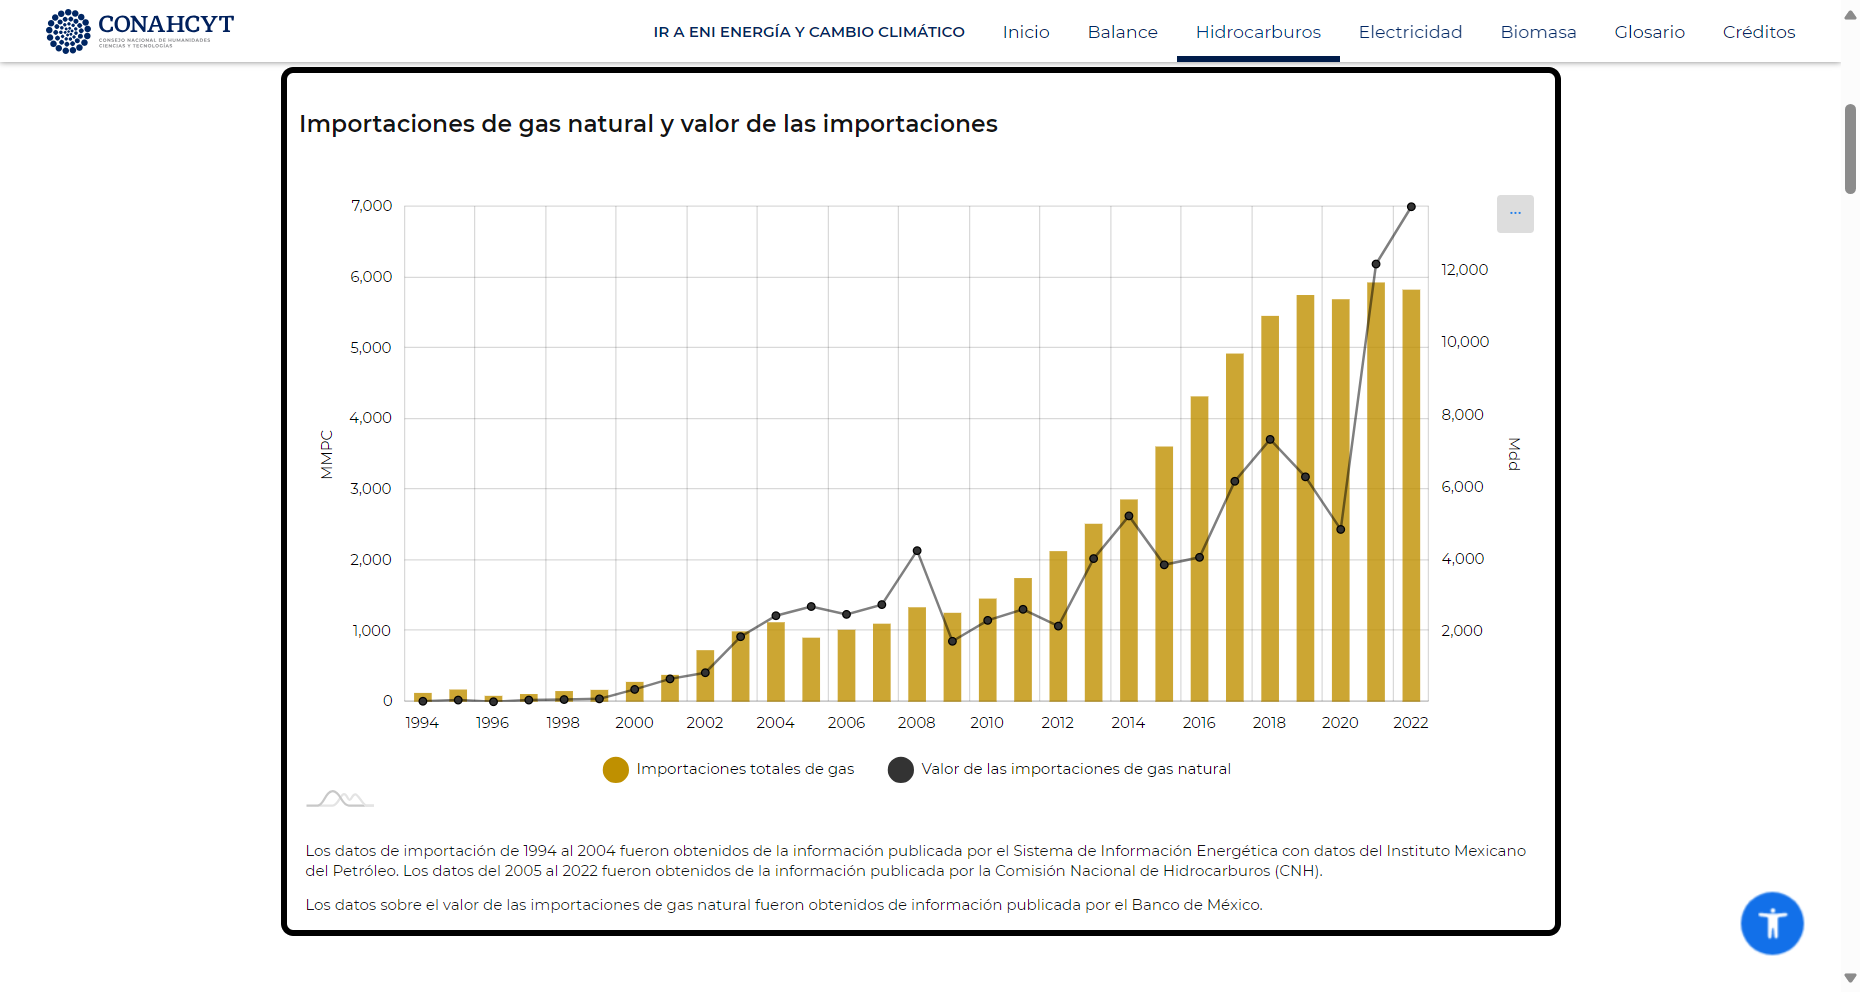
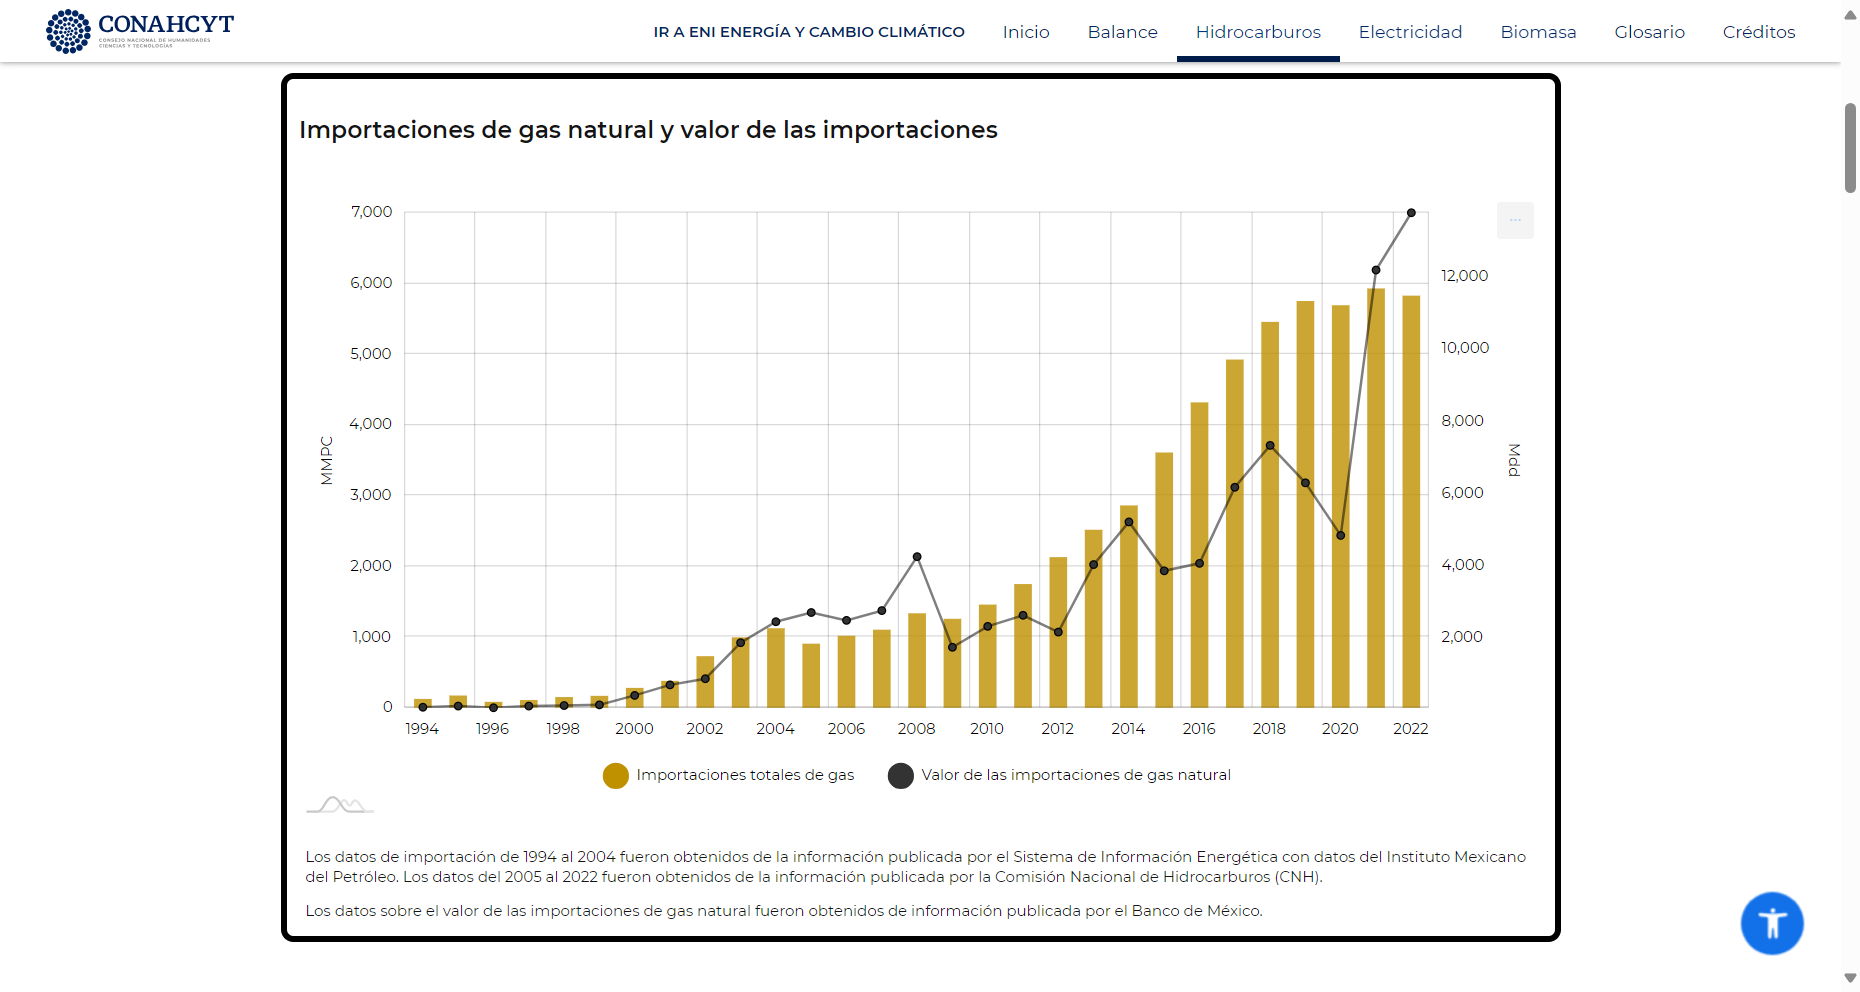
Ajuste minimo de tiempo 0.4 s

diff --git a/conahcyt.py b/conahcyt.py
@@ -9,6 +9,8 @@ from selenium.webdriver.support.select import Select
 from selenium.webdriver.common.action_chains import ActionChains
 
 
+
+
 #Este programa ya resalta el elemento web definido y ubicado por selenium mediante el xpath para despues hacer el procesamiento
 # digital de la imagen optener la mascara de mediante la ubicacion de contornos y despues aplicar un filtro con el tamaño objetivo 
 # para finalmente recortar la imagen. 
@@ -38,14 +40,19 @@ try:
     # WebDriverWait(driver, 30).until(EC.presence_of_element_located((By.XPATH, '//body/form/input[@value="Submit"]'))).click()
     # WebDriverWait(driver, 30).until(EC.presence_of_element_located((By.XPATH, '//body/h2[text()="Your input was received as:"]/following-sibling::*[1]')))
     # element = driver.find_element(By.XPATH, '//body/h2[text()="Your input was received as:"]/following-sibling::*[1]')
-    driver.execute_script("arguments[0].scrollIntoView({behavior: 'smooth', block: 'center', inline: 'center'});", element)
+    driver.execute_script("arguments[0].scrollIntoView({behavior: 'auto', block: 'center', inline: 'center'});", element)
+    # WebDriverWait(driver, 10).until(lambda driver: is_element_centered(driver, element))
+
     driver.execute_script("arguments[0].style.setProperty('border', 'thick solid black', 'important');", element)
-    time.sleep(10)
-    
+
+   
+    time.sleep(0.4)
+    # WebDriverWait(driver, 10).until(EC.visibility_of_element_located(
+    #     (By.XPATH, '/html/body/div[2]/div[2]/div[2]/div')))
     # Impresion de pantalla del ordenador resaltando la imagen objetivo 
     screenshot_path = 'conahcyt.png'
     driver.save_screenshot(screenshot_path)
-    time.sleep(5)
+    # time.sleep(5)
     
 
     # time.sleep(5)
@@ -112,7 +119,8 @@ else:
     # cv2.imshow('Imagen con blanco transformado a azul', imagen)
     
     # Muestra la imagen en escala de grises
-    cv2.imshow('Imagen en escala de grises', gray)
+    gray2 = cv2.resize(gray, None, fx=0.5, fy=0.5)
+    cv2.imshow('Imagen en escala de grises', gray2)
     
     # Muestra la imagen binaria
     cv2.imshow('Imagen binaria', th)
